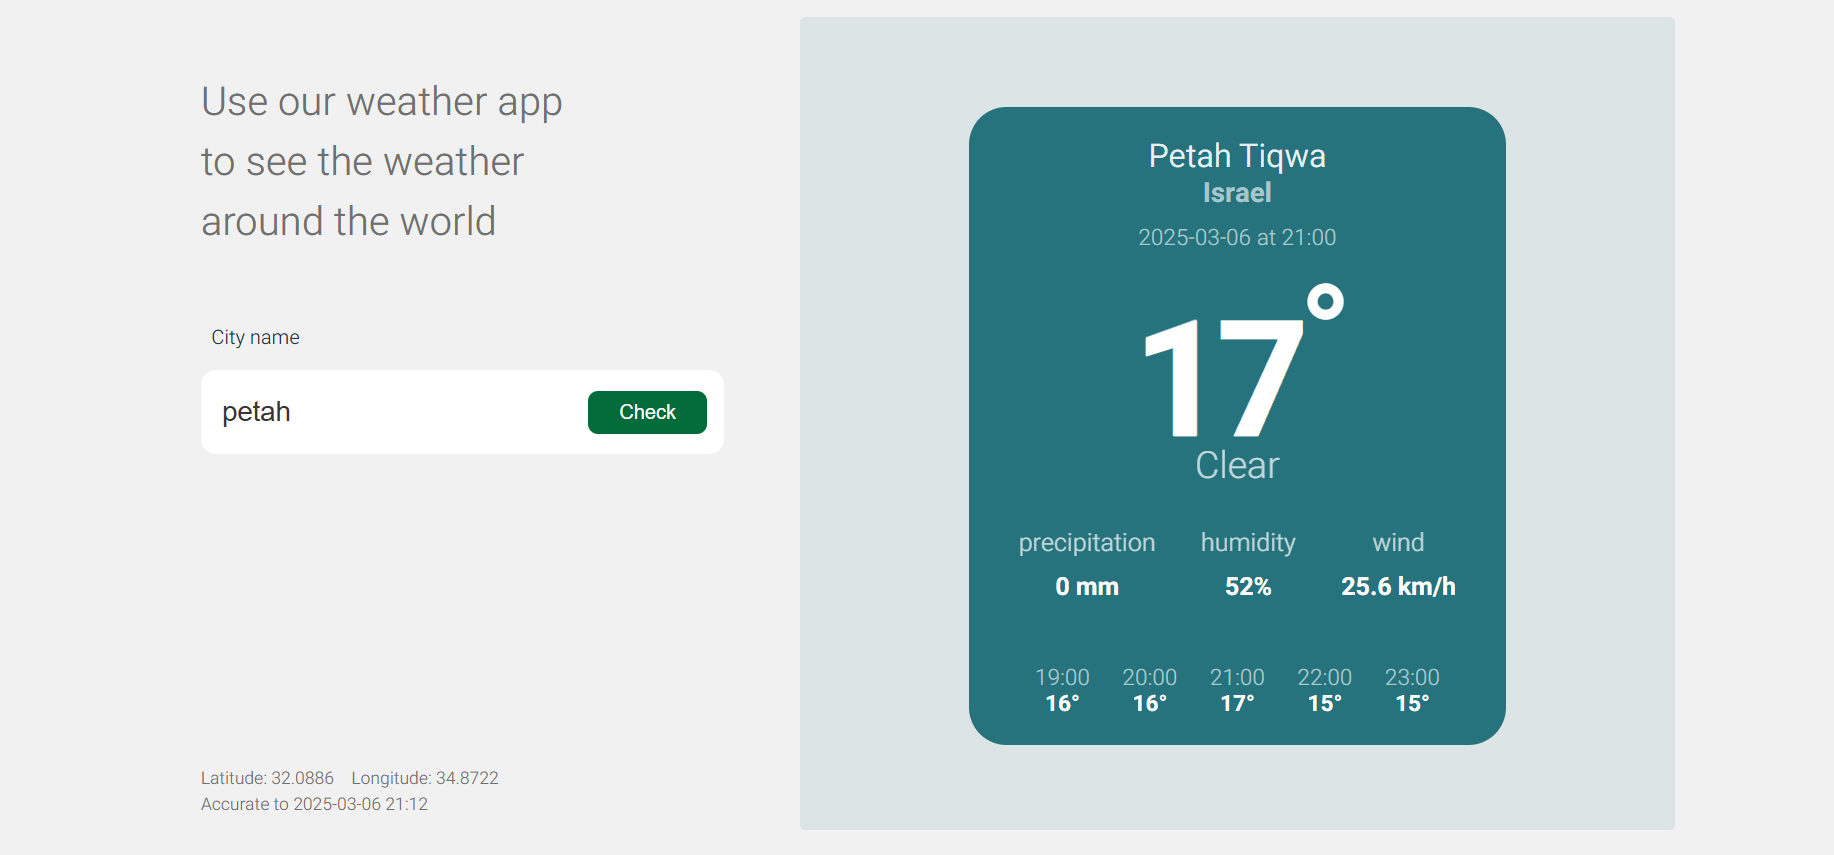
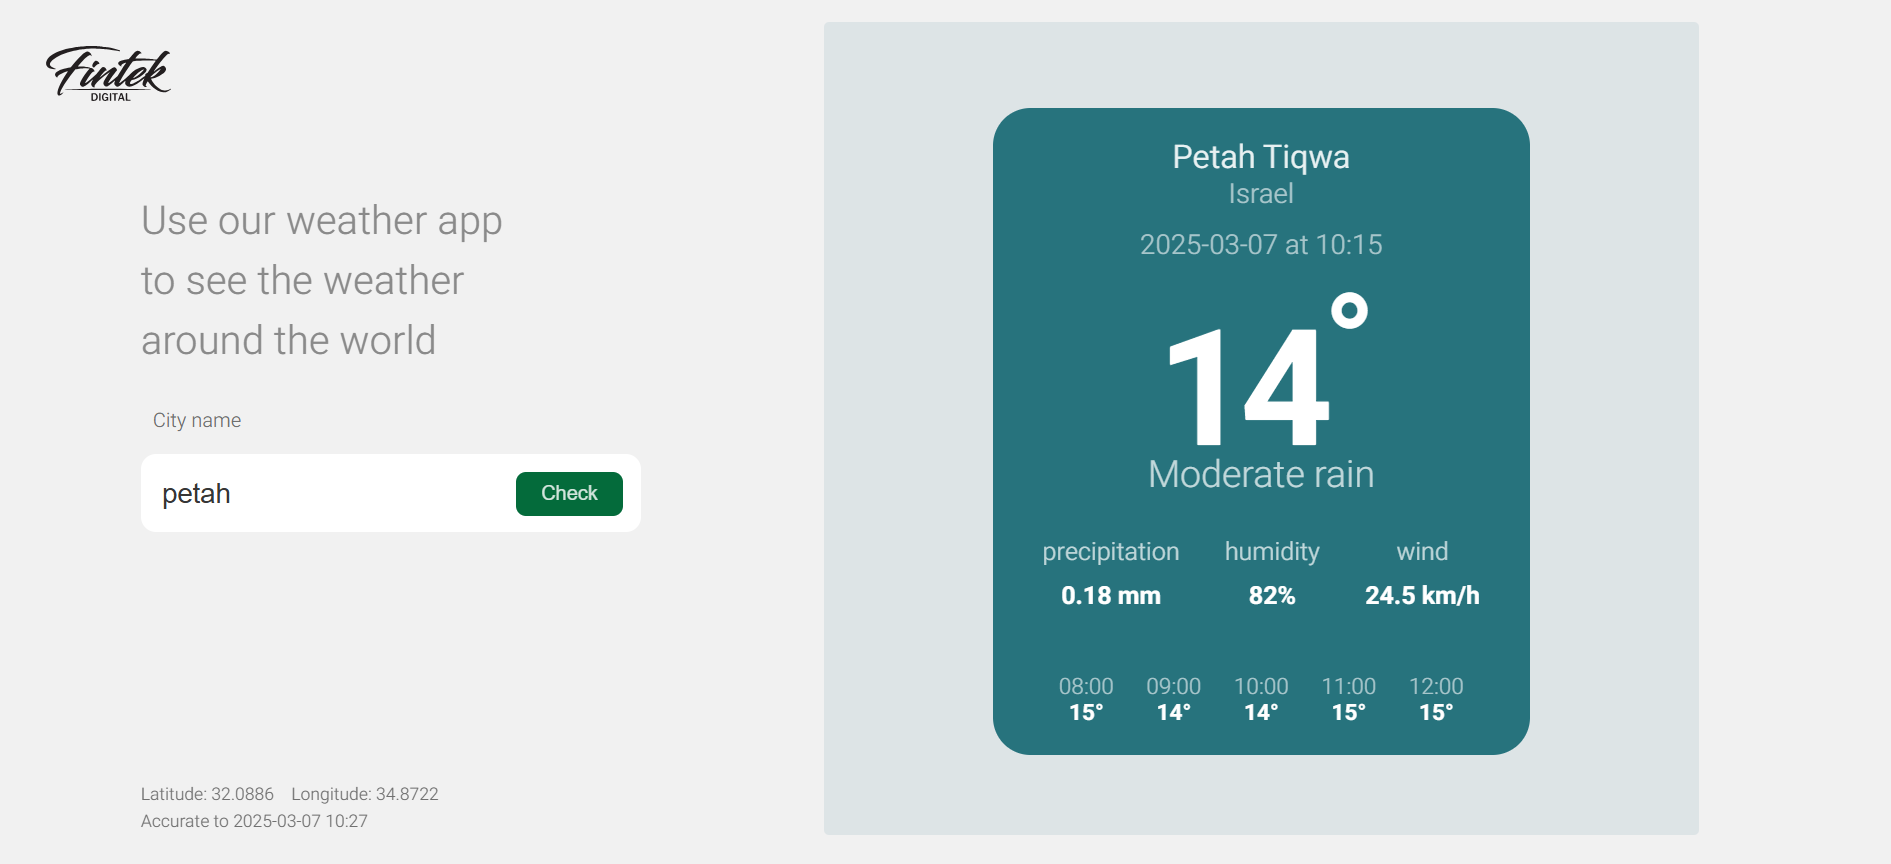
last changes

diff --git a/backend/Controllers/weather.js b/backend/Controllers/weather.js
@@ -3,7 +3,7 @@ import dotenv from "dotenv";
 dotenv.config();
 
 const weatherApiKey = process.env.WEATHER_API_KEY;
-const weatherApiUri = "http://api.weatherapi.com/v1/forecast.json";
+const weatherApiUri = process.env.WEATHER_API_URI;
 
 export async  function getWeather(req, res){
     const { city } = req.query;
@@ -12,18 +12,17 @@ export async  function getWeather(req, res){
     }
     try {
         const response = await axios.get(`${weatherApiUri}?key=${weatherApiKey}&q=${city}&days=1&aqi=no&alerts=no`);
-        const forecastData = response.data.forecast.forecastday[0].hour; // מערך השעות
-        const currentHour = new Date().getHours(); // השעה הנוכחית לפי השרת
+        const forecastData = response.data.forecast.forecastday[0].hour;
+        const currentHour = new Date().getHours();
 
         return res.status(200).json({
-            location: response.data.location, // מידע על המיקום
-            current: response.data.current, // מידע עדכני
-            forecastHours: forecastData, // כל השעות של היום
-            currentHourData: forecastData[currentHour] // המידע על השעה הנוכחית
+            location: response.data.location,
+            current: response.data.current,
+            forecastHours: forecastData,
+            currentHourData: forecastData[currentHour]
         });
     }
     catch (err) {
-        console.log("error: ", err.message);
         return res.status(500).json({ title: "error", message: "no such city" })
     }
 }

diff --git a/frontend/src/styles/home.css b/frontend/src/styles/home.css
@@ -21,18 +21,19 @@
 
 .left-section h1 {
     font-size: 32px;
-    font-weight: 250;
+    font-weight: 300;
     color: #707070;
     line-height: 1.5;
-    margin-top: 100px;
-    margin-bottom: 8vh;
-    align-items: flex-start;    
+    margin-top: 200px;
+    margin-bottom: 4vh;
+    align-items: flex-start;  
+    opacity: 0.8;  
 }
 
 .coordinates {
     font-size: 14px;
     color: #707070;
-    margin-top: 250px;
+    margin-top: 200px;
 }
 
 .right-section {
@@ -55,7 +56,7 @@
         padding: 30px;
     }
     .left-section h1{
-        margin-top: 600px;
+        margin-top: 700px;
     }
 
     .right-section {

diff --git a/frontend/src/components/WeatherDisplay.jsx b/frontend/src/components/WeatherDisplay.jsx
@@ -6,7 +6,13 @@ const WeatherDisplay = ({ weatherDetails }) => {
     const allHours = weatherDetails.forecastHours
         .filter(hour => {
             const hourNumber = new Date(hour.time).getHours();
-            return (hourNumber >= (now - 2 + 24) % 24) && (hourNumber <= (now + 2) % 24);
+            return [
+                (now - 2 + 24) % 24,
+                (now - 1 + 24) % 24,  
+                now,                  
+                (now + 1) % 24,       
+                (now + 2) % 24    
+            ].includes(hourNumber);
         })
 
     return (

diff --git a/frontend/src/styles/searchBar.css b/frontend/src/styles/searchBar.css
@@ -17,6 +17,7 @@
 
 .search-label{
     margin-left: 2%;
+    color: #707070;
 }
 
 .error-message{
@@ -29,15 +30,13 @@
     font-size: 22px;
     border: none;
     outline: none;
-    /* height: 60%; */
     color: #363636;
     text-align: left;
-    /* border-radius: 12px; */
 }
 
 .search-button {
     background-color: #046B3B;
-    color: white;
+    color: rgba(255, 255, 255, 0.829);
     padding: 10px 20px;
     border: none;
     cursor: pointer;

diff --git a/frontend/src/index.css b/frontend/src/index.css
@@ -17,5 +17,10 @@
   :root {
     color: #213547;
     background-color: #F1F1F1;
+    background-image: url('../src/assets/images/logo.svg');
+    background-repeat: no-repeat;
+    background-size: 100px auto;
+    background-position: left top;
+    background-position: 40px 40px;
   }
 }

diff --git a/frontend/src/styles/weatherDisplay.css b/frontend/src/styles/weatherDisplay.css
@@ -14,7 +14,6 @@
 
 .weather-container h2 {
     font-size: 22px;
-    font-weight: bold;
     margin-bottom: 0px;
 }
 
@@ -44,10 +43,11 @@
 }
 
 .country {
-    font-weight: 10;
     line-height: 1;
     font-size: 22px;
     color: #A8C6CB;
+    font-weight: 300;
+
 }
 
 .weather-main h1 {
